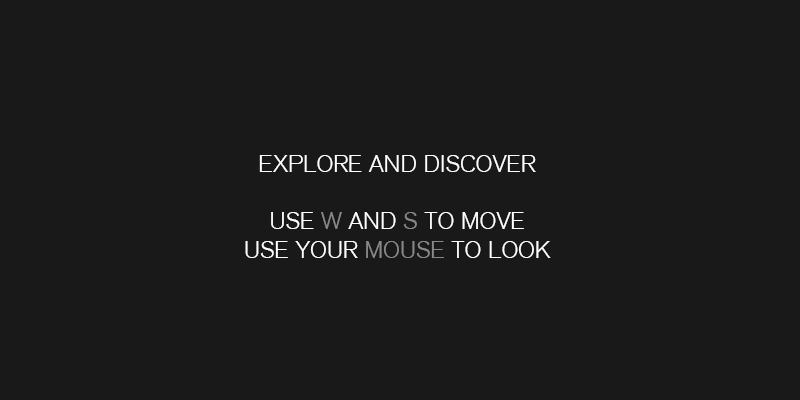
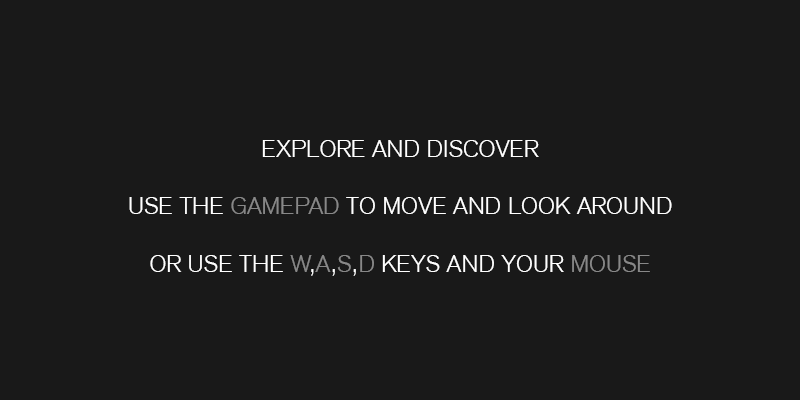
(hopefully) final test?

Changed region(s): [[0.1562, 0.48, 0.8438, 0.57], [0.1875, 0.6, 0.8125, 0.69], [0.3125, 0.33, 0.6875, 0.45]]

diff --git a/src/iss.cpp b/src/iss.cpp
@@ -9,6 +9,7 @@ Iss::Iss(){
 void Iss::setup() {
     isPaused = false;
     counter = 0;
+    fadePoint = 200;
     
     spaceSounds.loadSound("audio/2b.aiff");
     
@@ -72,12 +73,19 @@ void Iss::setup() {
     eSpin = -0.01;
     labelPos = ofVec3f(0,0,0);
     labelHeight = 50;
+    
+    exploreImg.loadImage("explore.png");
+    imgAlpha = 255;
 
 }
 
 //--------------------------------------------------------------
 void Iss::update() {
-    cout << spaceSounds.getPosition() << endl;
+    
+    if (counter < fadePoint) {
+        counter++;
+    }
+    //cout << spaceSounds.getPosition() << endl;
     if (spaceSounds.getPosition() >= 0.99) {
         ofSendMessage("TunnelB:0:7");
     }
@@ -89,10 +97,18 @@ void Iss::update() {
     }
     
     earthSphere.rotate(eSpin, 0, 1.0, 0.0);
+    if (isPaused) {
+        spaceSounds.setPaused(true);
+    } else {
+        spaceSounds.setPaused(false);
+    }
 }
 
 //--------------------------------------------------------------
 void Iss::draw() {
+    if (!isPaused) {
+        cam.enableMove();
+    }
     cam.begin();
     ofSetColor(255, 0, 0);
     //ofRect(0, 0, ofGetWidth(), ofGetHeight());
@@ -147,16 +163,42 @@ void Iss::draw() {
     light2.disable();
     ofDisableLighting();
     
-    //double dist = ofDistSquared(ams.getPosition().x, ams.getPosition().z, cam.getPosition().x, cam.getPosition().z);
-    //cam.speed = ofMap(dist, 5000, 500000, 4.0 * (60/ofGetFrameRate()), 7.0 * (60/ofGetFrameRate()),true);
+    double dist = ofDistSquared(ams.getPosition().x, ams.getPosition().z, cam.getPosition().x, cam.getPosition().z);
+    cam.speed = ofMap(dist, 5000, 500000, 2.0 * (60/ofGetFrameRate()), 3.2 * (60/ofGetFrameRate()),true);
+    
+    labelPos = cam.worldToScreen(ams.getPosition());
     
     cam.end();
+    
+    ofSetColor(255,0,0,ofMap(dist, 5000, 500000, 255, 0));
+    ofLine(labelPos.x, labelPos.y, labelPos.x+200,labelPos.y+200);
+    ofDrawBitmapString("Alpha Magnetic Spectrometer (AMS-02) Experiment\nDark Matter Detector", labelPos.x+200,labelPos.y+200);
+    
+    ofSetColor(255, 255, 255,255);
+    
+    if (counter >= fadePoint && imgAlpha > 0) {
+        imgAlpha-=5;
+    }
+    ofSetColor(255, 255, 255, ofClamp(imgAlpha, 0, 255));
+    
+    ofPushMatrix();
+    ofTranslate(ofGetWidth()/2,ofGetHeight()/2,10);
+    exploreImg.draw(-400,-200);
+    //cout << "EXPLORE" << endl;
+    ofPopMatrix();
+    
+    ofSetColor(255, 255, 255,255);
 
 }
 
 //--------------------------------------------------------------
 void Iss::pause(bool b) {
     isPaused = b;
+    if (b) {
+        cam.disableMove();
+    } else {
+        cam.enableMove();
+    }
 }
 
 //--------------------------------------------------------------
@@ -164,5 +206,10 @@ void Iss::resetCamera() {
     playedOnce = false;
     spaceSounds.setPosition(0.0);
     
-    
+    counter = 0;
+    cam.reset(-100);
+    cam.loadCameraPosition();
+    cam.setMinMaxY(40, 40);
+    cam.speed = 4.0f;
+    cam.flipCam();
 }

diff --git a/src/controller.cpp b/src/controller.cpp
@@ -31,7 +31,7 @@ void controller::setup(){
     debugMessages = false;
     isPaused = false;
     
-    current_state = E;
+    current_state = A;
     next_state = B;
     
     mind.reset();

diff --git a/src/iss.h b/src/iss.h
@@ -43,4 +43,7 @@ private:
     ofLight	light2;
     
     float distFactor;
+    ofImage exploreImg;
+    float imgAlpha;
+    int fadePoint;
 };
